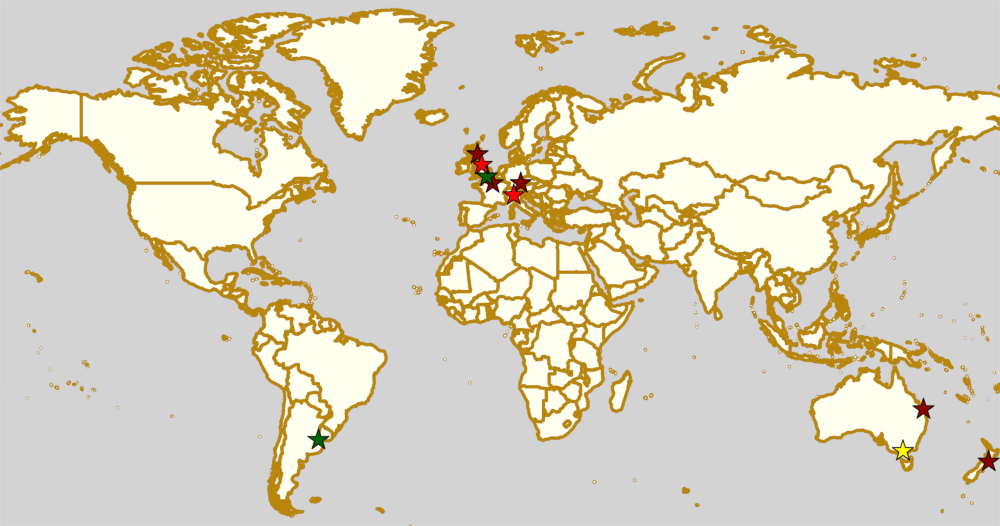
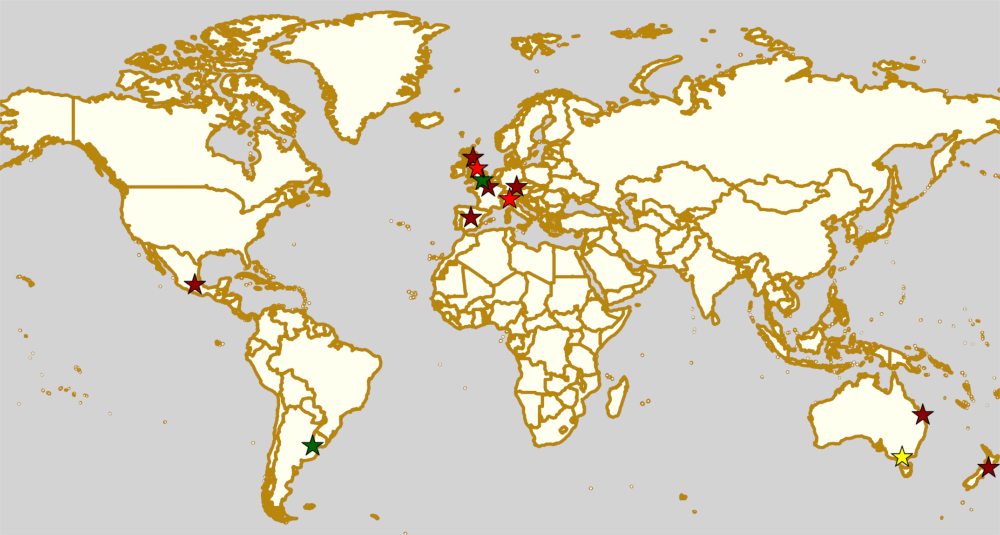
Publish 13 July highlights - add late announced Madrid and Burdel Zombie bouts

diff --git a/output/posts/highlights/2019/weekendhighlights-13072019/index.html b/output/posts/highlights/2019/weekendhighlights-13072019/index.html
@@ -34,6 +34,7 @@
                     <a class="tag" href="../../../../categories/national-tournaments/"><span>national tournaments</span></a>
                     <a class="tag" href="../../../../categories/new-zealand-roller-derby/"><span>new zealand roller derby</span></a>
                     <a class="tag" href="../../../../categories/short-track-roller-derby/"><span>short track roller derby</span></a>
+                    <a class="tag" href="../../../../categories/spanish-roller-derby/"><span>spanish roller derby</span></a>
                     <a class="tag" href="../../../../categories/weekend-highlights/"><span>weekend highlights</span></a>
                 </span>
                 <br><span class="authordate">
@@ -44,6 +45,7 @@
     <div>
 <p>This weekend's highlights are back to our 1 update format as this is a little quieter. There's a bunch of exciting "summer" events on, though, which we should highlight up here: in the UK, Eastbourne Extreme takes derby outside and to the coast for a 2 day mixed tournament; in France, Saint-Gratien once again hosts the pan-France Tournament of 6 Regions; and in Bundaberg, Australia, the 2019 SKATE of Emergency continues to raise funds for emergency services.</p>
 <p>(We'd also like to highlight the next "Un sol para lxs oficialxs", raising travel funds for Argentinian officials to support Roller Derby across the country; and on a different note ALL-IN's Short Track Experiment event in Leeds, exploring the new ruleset and how it might help to sustain &amp; develop the sport.)</p>
+<p><em>This article amended on Tuesday for two late announced fixtures in Spain and Mexico.</em></p>
 <p>The rules are, as usual: highlights limited to 1 event per country, with an "extra" event allowed for a different kind of fixture
 (so, 1 tournament and 1 bootcamp), or if they involve Scottish leagues (since we are the <em>Scottish</em> Roller Derby Blog).
 Other notability might also allow the extra event - great posters, notable teams, etc. (League birthdays may count as "special" enough, at our discretion ;) )</p>
@@ -196,6 +198,17 @@ teams named as puns on the names of various french cheeses, or cheese-based-food
 <p>Event starts: 1450 Saturday (doors open)</p>
 <p>Venue: Dundee International Sports Centre, Mains Loan, Dundee, Scotland</p>
 </div>
+<div class="section" id="sat-madrid-spain">
+<h2>Sat: Madrid, Spain</h2>
+<p><a class="reference external" href="https://www.facebook.com/events/2367431286628183/">[FACEBOOK LINK]</a>
+<a class="reference external" href="http://flattrackstats.com/node/110465">[FTS LINK]</a></p>
+<p><a class="reference external" href="http://www.rollerderbymadrid.com/">Roller Derby Madrid</a> host the last game of their season, just the weekend after winning the first ever National Championships; and this is an international bout!</p>
+<ul class="simple">
+<li>Roller Derby Madrid versus Switchblade (Lille A)</li>
+</ul>
+<p>Event starts: 1800 Saturday (doors open?)</p>
+<p>Venue: Polideportivo Plata y Castañar, Paseo de Plata y Castañar, Madrid, Spain</p>
+</div>
 <div class="section" id="sat-sun-buenos-aires-argentina">
 <h2>Sat-Sun: Buenos Aires, Argentina</h2>
 <p><a class="reference external" href="https://www.facebook.com/events/3348637171828419/">[FACEBOOK LINK]</a></p>
@@ -209,6 +222,23 @@ Un sol para lxs Oficialxs, as always, works as a weekend of roller derby, full o
 </ul>
 <p>Event starts: 1000 Saturday</p>
 <p>Venue: Avenida Curapaligüe 1100, 1406 Ciudad de Buenos Aires, Argentina</p>
+</div>
+<div class="section" id="sun-iztapalapa-mexico">
+<h2>Sun: Iztapalapa, Mexico</h2>
+<p><a class="reference external" href="https://www.facebook.com/events/2462673667117345/">[FACEBOOK LINK]</a>
+<a class="reference external" href="http://flattrackstats.com/bouts/110777/overview">[FTS LINK]</a>
+<a class="reference external" href="http://flattrackstats.com/bouts/110778/overview">[FTS LINK]</a>
+<a class="reference external" href="http://flattrackstats.com/bouts/110779/overview">[FTS LINK]</a></p>
+<p><a class="reference external" href="https://www.instagram.com/burdelzombie_lrdcm/">Burdel Zombie</a> host a "Triangular +1" fixture - 3 games, but with 4 teams competing overall, of Mexican derby. As
+we approach the 2019 Mexican National tournament series, all the teams are trying to get more games in to improve their
+rating, and thus placement in the qualifiers.</p>
+<ul class="simple">
+<li>Quadtlicues (Mexico City | MCRD ) vs Tekillerass (Mexico City | LRDCM )</li>
+<li>Furias Negras (Puebla)  vs Burdel Zombie (Mexico City | LRDCM )</li>
+<li>Tekillerass vs Furias Negras</li>
+</ul>
+<p>Event starts: 1000 Sunday (first game)</p>
+<p>Venue: Escuela de Formación Deportiva Salvador Allende, Av Antonio Díaz Soto y Gama s/n, Iztapalapa, Mexico</p>
 <!-- Sat-Sun:
 - - - - - - - - - - - - - - - - - - - - - - - - - - - - - - - -
 

diff --git a/output/index.html b/output/index.html
@@ -32,12 +32,14 @@
                             <a class="tag" href="categories/national-tournaments/"><span>national tournaments</span></a>
                             <a class="tag" href="categories/new-zealand-roller-derby/"><span>new zealand roller derby</span></a>
                             <a class="tag" href="categories/short-track-roller-derby/"><span>short track roller derby</span></a>
+                            <a class="tag" href="categories/spanish-roller-derby/"><span>spanish roller derby</span></a>
                             <a class="tag" href="categories/weekend-highlights/"><span>weekend highlights</span></a>
                 </span>
             </div>
         <div>
 <p>This weekend's highlights are back to our 1 update format as this is a little quieter. There's a bunch of exciting "summer" events on, though, which we should highlight up here: in the UK, Eastbourne Extreme takes derby outside and to the coast for a 2 day mixed tournament; in France, Saint-Gratien once again hosts the pan-France Tournament of 6 Regions; and in Bundaberg, Australia, the 2019 SKATE of Emergency continues to raise funds for emergency services.</p>
 <p>(We'd also like to highlight the next "Un sol para lxs oficialxs", raising travel funds for Argentinian officials to support Roller Derby across the country; and on a different note ALL-IN's Short Track Experiment event in Leeds, exploring the new ruleset and how it might help to sustain &amp; develop the sport.)</p>
+<p><em>This article amended on Tuesday for two late announced fixtures in Spain and Mexico.</em></p>
 <p>The rules are, as usual: highlights limited to 1 event per country, with an "extra" event allowed for a different kind of fixture
 (so, 1 tournament and 1 bootcamp), or if they involve Scottish leagues (since we are the <em>Scottish</em> Roller Derby Blog).
 Other notability might also allow the extra event - great posters, notable teams, etc. (League birthdays may count as "special" enough, at our discretion ;) )</p>

diff --git a/output/categories/spanish-roller-derby/index.html b/output/categories/spanish-roller-derby/index.html
@@ -29,6 +29,9 @@
 
     </header><ul class="postlist">
 <li>
+<time class="listdate" datetime="2019-07-08T19:40:00+01:00" title="2019-07-08 19:40">2019-07-08 19:40</time><a href="../../posts/highlights/2019/weekendhighlights-13072019/" class="listtitle">Weekend Highlights: 13 July 2019</a><a></a>
+</li>
+            <li>
 <time class="listdate" datetime="2019-07-01T19:00:00+01:00" title="2019-07-01 19:00">2019-07-01 19:00</time><a href="../../posts/highlights/2019/weekendhighlights-06072019/" class="listtitle">Weekend Highlights: 06 July 2019</a><a></a>
 </li>
             <li>

diff --git a/output/posts/highlights/2019/weekendhighlights-13072019/index.rst b/output/posts/highlights/2019/weekendhighlights-13072019/index.rst
@@ -1,7 +1,7 @@
 .. title: Weekend Highlights: 13 July 2019
 .. slug: weekendhighlights-13072019
 .. date: 2019-07-08 19:40 UTC+01:00
-.. tags: weekend highlights, new zealand roller derby, australian roller derby, british roller derby, mexican roller derby, french roller derby, short track roller derby, italian roller derby, german roller derby, national tournaments
+.. tags: weekend highlights, new zealand roller derby, australian roller derby, british roller derby, mexican roller derby, french roller derby, short track roller derby, italian roller derby, german roller derby, national tournaments, mexican roller derby, spanish roller derby
 .. category:
 .. link:
 .. description:
@@ -11,6 +11,8 @@
 This weekend's highlights are back to our 1 update format as this is a little quieter. There's a bunch of exciting "summer" events on, though, which we should highlight up here: in the UK, Eastbourne Extreme takes derby outside and to the coast for a 2 day mixed tournament; in France, Saint-Gratien once again hosts the pan-France Tournament of 6 Regions; and in Bundaberg, Australia, the 2019 SKATE of Emergency continues to raise funds for emergency services.
 
 (We'd also like to highlight the next "Un sol para lxs oficialxs", raising travel funds for Argentinian officials to support Roller Derby across the country; and on a different note ALL-IN's Short Track Experiment event in Leeds, exploring the new ruleset and how it might help to sustain & develop the sport.)
+
+*This article amended on Tuesday for two late announced fixtures in Spain and Mexico.*
 
 The rules are, as usual: highlights limited to 1 event per country, with an "extra" event allowed for a different kind of fixture
 (so, 1 tournament and 1 bootcamp), or if they involve Scottish leagues (since we are the *Scottish* Roller Derby Blog).
@@ -252,6 +254,26 @@ Event starts: 1450 Saturday (doors open)
 
 Venue: Dundee International Sports Centre, Mains Loan, Dundee, Scotland
 
+Sat: Madrid, Spain
+--------------------------------
+
+`[FACEBOOK LINK]`__
+`[FTS LINK]`__
+
+.. __: https://www.facebook.com/events/2367431286628183/
+.. __: http://flattrackstats.com/node/110465
+
+
+`Roller Derby Madrid`_ host the last game of their season, just the weekend after winning the first ever National Championships; and this is an international bout!
+
+.. _Roller Derby Madrid: http://www.rollerderbymadrid.com/
+
+- Roller Derby Madrid versus Switchblade (Lille A)
+
+
+Event starts: 1800 Saturday (doors open?)
+
+Venue: Polideportivo Plata y Castañar, Paseo de Plata y Castañar, Madrid, Spain
 
 
 Sat-Sun: Buenos Aires, Argentina
@@ -273,6 +295,35 @@ Un sol para lxs Oficialxs, as always, works as a weekend of roller derby, full o
 Event starts: 1000 Saturday
 
 Venue: Avenida Curapaligüe 1100, 1406 Ciudad de Buenos Aires, Argentina
+
+Sun: Iztapalapa, Mexico
+--------------------------------
+
+`[FACEBOOK LINK]`__
+`[FTS LINK]`__
+`[FTS LINK]`__
+`[FTS LINK]`__
+
+.. __: https://www.facebook.com/events/2462673667117345/
+.. __: http://flattrackstats.com/bouts/110777/overview
+.. __: http://flattrackstats.com/bouts/110778/overview
+.. __: http://flattrackstats.com/bouts/110779/overview
+
+
+`Burdel Zombie`_ host a "Triangular +1" fixture - 3 games, but with 4 teams competing overall, of Mexican derby. As
+we approach the 2019 Mexican National tournament series, all the teams are trying to get more games in to improve their
+rating, and thus placement in the qualifiers.
+
+.. _Burdel Zombie: https://www.instagram.com/burdelzombie_lrdcm/
+
+- Quadtlicues (Mexico City \| MCRD ) vs Tekillerass (Mexico City \| LRDCM )
+- Furias Negras (Puebla)  vs Burdel Zombie (Mexico City \| LRDCM )
+- Tekillerass vs Furias Negras
+
+
+Event starts: 1000 Sunday (first game)
+
+Venue: Escuela de Formación Deportiva Salvador Allende, Av Antonio Díaz Soto y Gama s/n, Iztapalapa, Mexico
 
 
 ..

diff --git a/posts/highlights/2019/wknd-13July2019.rst b/posts/highlights/2019/wknd-13July2019.rst
@@ -1,7 +1,7 @@
 .. title: Weekend Highlights: 13 July 2019
 .. slug: weekendhighlights-13072019
 .. date: 2019-07-08 19:40 UTC+01:00
-.. tags: weekend highlights, new zealand roller derby, australian roller derby, british roller derby, mexican roller derby, french roller derby, short track roller derby, italian roller derby, german roller derby, national tournaments
+.. tags: weekend highlights, new zealand roller derby, australian roller derby, british roller derby, mexican roller derby, french roller derby, short track roller derby, italian roller derby, german roller derby, national tournaments, mexican roller derby, spanish roller derby
 .. category:
 .. link:
 .. description:
@@ -11,6 +11,8 @@
 This weekend's highlights are back to our 1 update format as this is a little quieter. There's a bunch of exciting "summer" events on, though, which we should highlight up here: in the UK, Eastbourne Extreme takes derby outside and to the coast for a 2 day mixed tournament; in France, Saint-Gratien once again hosts the pan-France Tournament of 6 Regions; and in Bundaberg, Australia, the 2019 SKATE of Emergency continues to raise funds for emergency services.
 
 (We'd also like to highlight the next "Un sol para lxs oficialxs", raising travel funds for Argentinian officials to support Roller Derby across the country; and on a different note ALL-IN's Short Track Experiment event in Leeds, exploring the new ruleset and how it might help to sustain & develop the sport.)
+
+*This article amended on Tuesday for two late announced fixtures in Spain and Mexico.*
 
 The rules are, as usual: highlights limited to 1 event per country, with an "extra" event allowed for a different kind of fixture
 (so, 1 tournament and 1 bootcamp), or if they involve Scottish leagues (since we are the *Scottish* Roller Derby Blog).
@@ -252,6 +254,26 @@ Event starts: 1450 Saturday (doors open)
 
 Venue: Dundee International Sports Centre, Mains Loan, Dundee, Scotland
 
+Sat: Madrid, Spain
+--------------------------------
+
+`[FACEBOOK LINK]`__
+`[FTS LINK]`__
+
+.. __: https://www.facebook.com/events/2367431286628183/
+.. __: http://flattrackstats.com/node/110465
+
+
+`Roller Derby Madrid`_ host the last game of their season, just the weekend after winning the first ever National Championships; and this is an international bout!
+
+.. _Roller Derby Madrid: http://www.rollerderbymadrid.com/
+
+- Roller Derby Madrid versus Switchblade (Lille A)
+
+
+Event starts: 1800 Saturday (doors open?)
+
+Venue: Polideportivo Plata y Castañar, Paseo de Plata y Castañar, Madrid, Spain
 
 
 Sat-Sun: Buenos Aires, Argentina
@@ -273,6 +295,35 @@ Un sol para lxs Oficialxs, as always, works as a weekend of roller derby, full o
 Event starts: 1000 Saturday
 
 Venue: Avenida Curapaligüe 1100, 1406 Ciudad de Buenos Aires, Argentina
+
+Sun: Iztapalapa, Mexico
+--------------------------------
+
+`[FACEBOOK LINK]`__
+`[FTS LINK]`__
+`[FTS LINK]`__
+`[FTS LINK]`__
+
+.. __: https://www.facebook.com/events/2462673667117345/
+.. __: http://flattrackstats.com/bouts/110777/overview
+.. __: http://flattrackstats.com/bouts/110778/overview
+.. __: http://flattrackstats.com/bouts/110779/overview
+
+
+`Burdel Zombie`_ host a "Triangular +1" fixture - 3 games, but with 4 teams competing overall, of Mexican derby. As
+we approach the 2019 Mexican National tournament series, all the teams are trying to get more games in to improve their
+rating, and thus placement in the qualifiers.
+
+.. _Burdel Zombie: https://www.instagram.com/burdelzombie_lrdcm/
+
+- Quadtlicues (Mexico City \| MCRD ) vs Tekillerass (Mexico City \| LRDCM )
+- Furias Negras (Puebla)  vs Burdel Zombie (Mexico City \| LRDCM )
+- Tekillerass vs Furias Negras
+
+
+Event starts: 1000 Sunday (first game)
+
+Venue: Escuela de Formación Deportiva Salvador Allende, Av Antonio Díaz Soto y Gama s/n, Iztapalapa, Mexico
 
 
 ..
